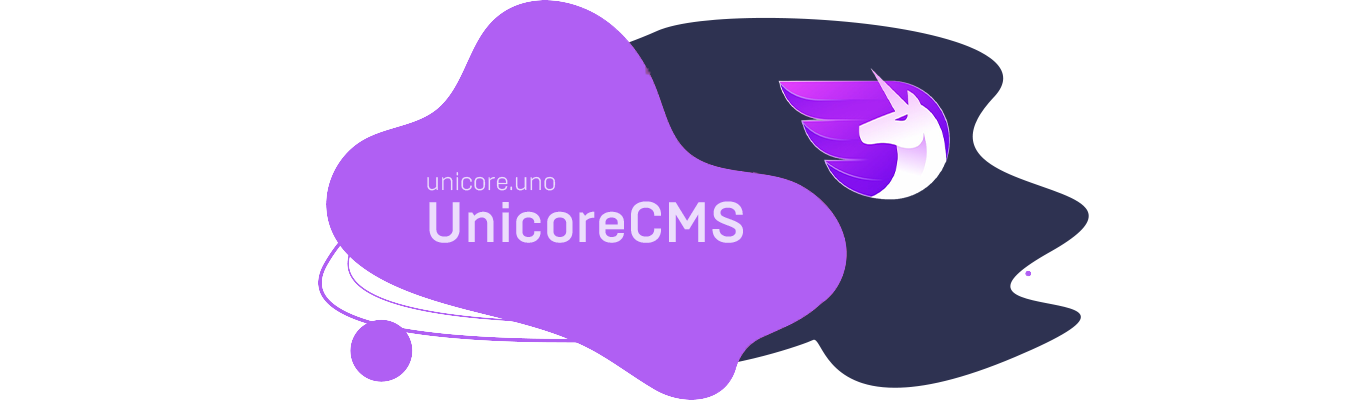
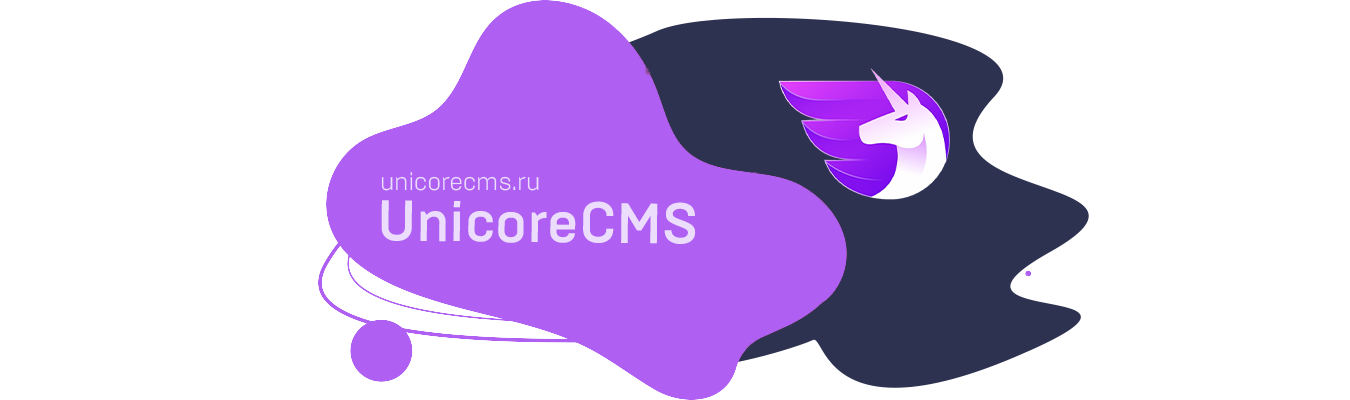
Upd

Changed region(s): [[0.28, 0.42, 0.56, 0.63]]

diff --git a/README.md b/README.md
@@ -9,7 +9,7 @@
  
 [![Build Status](https://github.com/UnicoreProject/UnicoreCMS/actions/workflows/build.yml/badge.svg)](https://github.com/UnicoreProject/UnicoreCMS/actions)
 
-[Документация](https://unicore.uno/docs/) | [Покупка](https://unicore.uno/buy/)
+[Документация](https://unicorecms.ru/docs/) | [Покупка](https://unicorecms.ru/buy/)
 
 > **UnicoreCMS** - Headless CMS для модовых проектов Minecraft. Современные технологии и профессиональный подход, невероятная производительность и скорость. 
 
@@ -19,7 +19,7 @@
 - ***Быстрая***. Каждый компонент оптимизирован и обработает сверх-много запросов за сверх-мало времени. 
 - ***Безопасная***. На ряду с актуальными версиями пакетов и современным концептом работы — неуязвима. 
 - ***Не зависима от БД***. Поддерживает MySQL, MariaDB, MongoDB, Postgres, CockroachDB, SQLite, Microsoft SQL Server, Oracle или SAP Hana.
-- ***Простая установка***. Docker или Manual? В обеих случаях установка довольно проста и описана [тут](https://unicore.uno/docs/install).
+- ***Простая установка***. Docker или Manual? В обеих случаях установка довольно проста и описана [тут](https://unicorecms.ru/docs/install).
 - ***Легко интегрируема***. Свои решения для простой интеграции с лаунчером и сервером. 
 - ***OpenSource***. Нам нечего скрывать и вы можете это увидеть
 
@@ -36,28 +36,28 @@
 - 👥 Система учётных записей пользователей. 
 - 👀 **Публичные** профили пользователей. 
 - 💼 Загрузка/Удаление скинов/плащей.
-- 👑 Система [ролей и прав](https://unicore.uno/docs/admin/roles-and-perms) пользователей, принцип работы схож с PEX/LuckPerms. Встроенные группы для default и banned (например можно запретить перевод денег заблокированным на серверах пользователям) 
+- 👑 Система [ролей и прав](https://unicorecms.ru/docs/admin/roles-and-perms) пользователей, принцип работы схож с PEX/LuckPerms. Встроенные группы для default и banned (например можно запретить перевод денег заблокированным на серверах пользователям) 
 - 🔑 Авторизация на основе JWT- токенов (Access/Refresh). 
 - 📜 Система сеансов, история авторизаций. 
 - 📱 **Двухфакторная авторизация** (GoogleAuth). 
 - 🔒 Смена/Восстановление пароля подтверждение Email. 
 - 💪 **Админ-Панель**, охватывающая весь функционал системы (далее ПУ) 
-- 📚 [Статические страницы](https://unicore.uno/docs/admin/pages), автоматически генерируемые **статические страницы для описания серверов и донат-групп**. 
+- 📚 [Статические страницы](https://unicorecms.ru/docs/admin/pages), автоматически генерируемые **статические страницы для описания серверов и донат-групп**. 
 - 🛡 **Логирование действий** в ЛК, Магазине, ПУ. 
 - ⚔ Сбор внутриигровой статистики PlayTime (мультисерверно). 
 - 📊 **Real-Time мониторинг** на веб-сокетах. 
-- 💡 [Новости](https://unicore.uno/docs/admin/news). Парсинг новостей с помощью [VK Longpoll](https://unicore.uno/docs/settings/vk-longpoll).
+- 💡 [Новости](https://unicorecms.ru/docs/admin/news). Парсинг новостей с помощью [VK Longpoll](https://unicorecms.ru/docs/settings/vk-longpoll).
 - 💎 ***E-Commerce***
   - **Полная мультисерверность** двух следующих компонентов, **пересечения между серверами**. 
-  - Продажа внутриигровых [товаров и китов](https://unicore.uno/docs/admin/store), группирование по **категориям**. 
+  - Продажа внутриигровых [товаров и китов](https://unicorecms.ru/docs/admin/store), группирование по **категориям**. 
   - Продажа внутриигровых [прав/групп](admin/donate-groups-and-perms)
-  - Продажа [веб-прав](https://unicore.uno/docs/admin/roles-and-perms) (Например возможность загрузки HD-скина и т. д.) 
-  - Конструктор [вознаграждений при голосовании](https://unicore.uno/docs/admin/votes) в мониторингах (TopCraft, MCTop, Minecraft-Raiting). 
+  - Продажа [веб-прав](https://unicorecms.ru/docs/admin/roles-and-perms) (Например возможность загрузки HD-скина и т. д.) 
+  - Конструктор [вознаграждений при голосовании](https://unicorecms.ru/docs/admin/votes) в мониторингах (TopCraft, MCTop, Minecraft-Raiting). 
   - Конструктор на основе тригеров для топ-листов (Топ "онлайн" и топ голосующих). 
   - **Внутриигровая экономика** (мультисерверно). Перевод валюты между серверами, игроками, обмен валюты. 
 ### Внешние компоненты
-- **UnicoreConnect** - **Sponge/Spigot-плагин** для двухнаправленной интеграции экономики, прав, групп, склада-покупок, банов и сбора статистики между сайтом и серверами. [Подробнее](https://unicore.uno/docs/settings/unicore-connect).
-- **UnicoreProvider** - серверный модуль **GravitLauncher** для интеграции сервисов авторизации. [Подробнее](https://unicore.uno/docs/settings/unicore-provider).
+- **UnicoreConnect** - **Sponge/Spigot-плагин** для двухнаправленной интеграции экономики, прав, групп, склада-покупок, банов и сбора статистики между сайтом и серверами. [Подробнее](https://unicorecms.ru/docs/settings/unicore-connect).
+- **UnicoreProvider** - серверный модуль **GravitLauncher** для интеграции сервисов авторизации. [Подробнее](https://unicorecms.ru/docs/settings/unicore-provider).
 
 
 ### API для разработчиков
